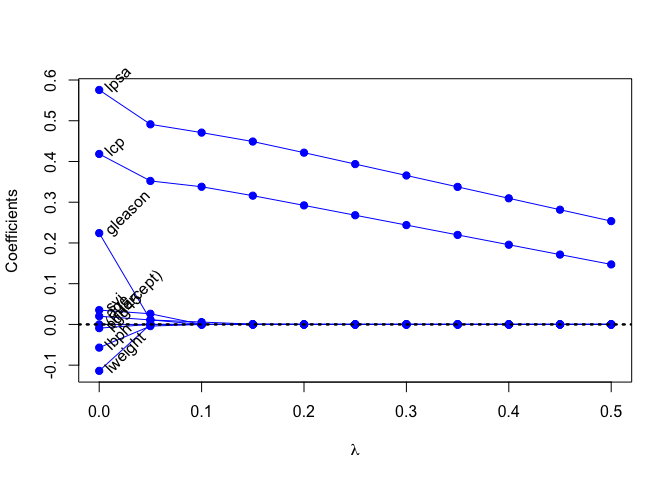
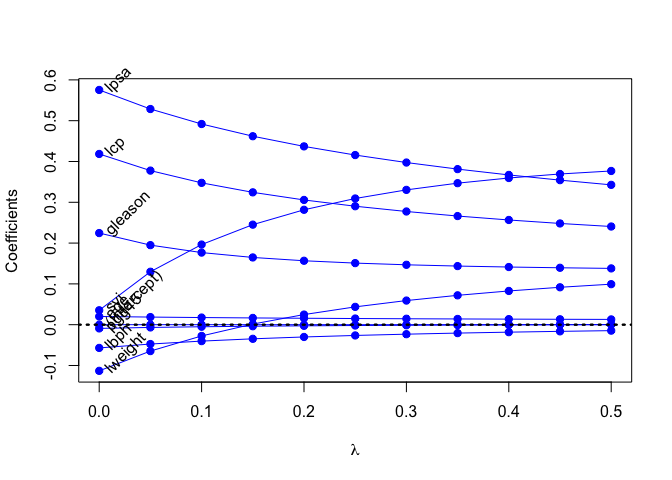
Add files via upload

diff --git a/Homework3_Xueyuan Li/Homework3.md b/Homework3_Xueyuan Li/Homework3.md
@@ -220,7 +220,7 @@ error(yz_test, fit)
 form  <- lcavol ~  lweight + age + lbph + lcp + pgg45 + lpsa + svi + gleason
 x_inp <- model.matrix(form, data=prostate_train)
 y_out <- prostate_train$lcavol
-ridge_model <- glmnet(x=x_inp, y=y_out, lambda=seq(0.5, 0, -0.05))
+ridge_model <- glmnet(x=x_inp, y=y_out, lambda=seq(0.5, 0, -0.05), alpha = 0)
 print(ridge_model$beta)
 ```
 
@@ -228,26 +228,36 @@ print(ridge_model$beta)
 
     ##    [[ suppressing 11 column names 's0', 's1', 's2' ... ]]
 
-    ##                                                                        
-    ## (Intercept) .         .         .         .         .         .        
-    ## lweight     .         .         .         .         .         .        
-    ## age         .         .         .         .         .         .        
-    ## lbph        .         .         .         .         .         .        
-    ## lcp         0.1473018 0.1714414 0.1955919 0.2197423 0.2438928 0.2680433
-    ## pgg45       .         .         .         .         .         .        
-    ## lpsa        0.2535992 0.2816134 0.3096214 0.3376294 0.3656374 0.3936454
-    ## svi         .         .         .         .         .         .        
-    ## gleason     .         .         .         .         .         .        
-    ##                                                                         
-    ## (Intercept) .         .            .            .            .          
-    ## lweight     .         .            .            .           -0.113959029
-    ## age         .         0.0006179005 0.005823836  0.010987417  0.020114429
-    ## lbph        .         .            .           -0.004060083 -0.056959719
-    ## lcp         0.2921937 0.3160341041 0.337951116  0.352226351  0.418442122
-    ## pgg45       .         .            .            .           -0.009110807
-    ## lpsa        0.4216534 0.4489636282 0.470877681  0.491246304  0.575583816
-    ## svi         .         .            .            0.026126960  0.035184640
-    ## gleason     .         .            .            0.011159844  0.224210312
+    ##                                                                    
+    ## (Intercept)  .             .             .             .           
+    ## lweight      0.0993164708  9.167566e-02  0.0826683948  0.0719539791
+    ## age          0.0129153943  1.324527e-02  0.0136179441  0.0140406458
+    ## lbph        -0.0145798645 -1.634009e-02 -0.0183250211 -0.0206075810
+    ## lcp          0.2406189663  2.481045e-01  0.2566365965  0.2662889674
+    ## pgg45        0.0002559092 -6.282802e-05 -0.0004352183 -0.0008738898
+    ## lpsa         0.3427088262  3.542773e-01  0.3670625828  0.3813402190
+    ## svi          0.3767521726  3.693591e-01  0.3595330020  0.3468674180
+    ## gleason      0.1379543516  1.394770e-01  0.1413173561  0.1436779615
+    ##                                                                             
+    ## (Intercept)  .            .            .            .            .          
+    ## lweight      0.059127616  0.043652593  0.024777969  0.001504802 -0.027603986
+    ## age          0.014526957  0.015088490  0.015748487  0.016532948  0.017480107
+    ## lbph        -0.023258103 -0.026377963 -0.030098852 -0.034621150 -0.040241264
+    ## lcp          0.277447149  0.290342311  0.305728439  0.324372008  0.347616547
+    ## pgg45       -0.001398912 -0.002031353 -0.002810371 -0.003788173 -0.005050263
+    ## lpsa         0.397429712  0.415786556  0.437009864  0.461951799  0.491849702
+    ## svi          0.330415198  0.309283880  0.281608260  0.245177911  0.196427346
+    ## gleason      0.146778188  0.150949425  0.156678907  0.164800413  0.176722769
+    ##                                      
+    ## (Intercept)  .            .          
+    ## lweight     -0.064680201 -0.113137304
+    ## age          0.018643148  0.020098181
+    ## lbph        -0.047425776 -0.056962692
+    ## lcp          0.377657417  0.418431830
+    ## pgg45       -0.006739814 -0.009116838
+    ## lpsa         0.528596455  0.575318051
+    ## svi          0.129711598  0.035342349
+    ## gleason      0.194999807  0.224585243
 
 ``` r
 #ridge_model <- glmnet(x = as.matrix(train[, -10]), y = train$lpsa, alpha = 0)
@@ -292,26 +302,36 @@ colnames(ridge_model$beta) <- paste('lam =', ridge_model$lambda)
 print(ridge_model$beta %>% as.matrix)
 ```
 
-    ##             lam = 0.5 lam = 0.45 lam = 0.4 lam = 0.35 lam = 0.3 lam = 0.25
-    ## (Intercept) 0.0000000  0.0000000 0.0000000  0.0000000 0.0000000  0.0000000
-    ## lweight     0.0000000  0.0000000 0.0000000  0.0000000 0.0000000  0.0000000
-    ## age         0.0000000  0.0000000 0.0000000  0.0000000 0.0000000  0.0000000
-    ## lbph        0.0000000  0.0000000 0.0000000  0.0000000 0.0000000  0.0000000
-    ## lcp         0.1473018  0.1714414 0.1955919  0.2197423 0.2438928  0.2680433
-    ## pgg45       0.0000000  0.0000000 0.0000000  0.0000000 0.0000000  0.0000000
-    ## lpsa        0.2535992  0.2816134 0.3096214  0.3376294 0.3656374  0.3936454
-    ## svi         0.0000000  0.0000000 0.0000000  0.0000000 0.0000000  0.0000000
-    ## gleason     0.0000000  0.0000000 0.0000000  0.0000000 0.0000000  0.0000000
-    ##             lam = 0.2   lam = 0.15   lam = 0.1   lam = 0.05      lam = 0
-    ## (Intercept) 0.0000000 0.0000000000 0.000000000  0.000000000  0.000000000
-    ## lweight     0.0000000 0.0000000000 0.000000000  0.000000000 -0.113959029
-    ## age         0.0000000 0.0006179005 0.005823836  0.010987417  0.020114429
-    ## lbph        0.0000000 0.0000000000 0.000000000 -0.004060083 -0.056959719
-    ## lcp         0.2921937 0.3160341041 0.337951116  0.352226351  0.418442122
-    ## pgg45       0.0000000 0.0000000000 0.000000000  0.000000000 -0.009110807
-    ## lpsa        0.4216534 0.4489636282 0.470877681  0.491246304  0.575583816
-    ## svi         0.0000000 0.0000000000 0.000000000  0.026126960  0.035184640
-    ## gleason     0.0000000 0.0000000000 0.000000000  0.011159844  0.224210312
+    ##                 lam = 0.5    lam = 0.45     lam = 0.4    lam = 0.35
+    ## (Intercept)  0.0000000000  0.000000e+00  0.0000000000  0.0000000000
+    ## lweight      0.0993164708  9.167566e-02  0.0826683948  0.0719539791
+    ## age          0.0129153943  1.324527e-02  0.0136179441  0.0140406458
+    ## lbph        -0.0145798645 -1.634009e-02 -0.0183250211 -0.0206075810
+    ## lcp          0.2406189663  2.481045e-01  0.2566365965  0.2662889674
+    ## pgg45        0.0002559092 -6.282802e-05 -0.0004352183 -0.0008738898
+    ## lpsa         0.3427088262  3.542773e-01  0.3670625828  0.3813402190
+    ## svi          0.3767521726  3.693591e-01  0.3595330020  0.3468674180
+    ## gleason      0.1379543516  1.394770e-01  0.1413173561  0.1436779615
+    ##                lam = 0.3   lam = 0.25    lam = 0.2   lam = 0.15    lam = 0.1
+    ## (Intercept)  0.000000000  0.000000000  0.000000000  0.000000000  0.000000000
+    ## lweight      0.059127616  0.043652593  0.024777969  0.001504802 -0.027603986
+    ## age          0.014526957  0.015088490  0.015748487  0.016532948  0.017480107
+    ## lbph        -0.023258103 -0.026377963 -0.030098852 -0.034621150 -0.040241264
+    ## lcp          0.277447149  0.290342311  0.305728439  0.324372008  0.347616547
+    ## pgg45       -0.001398912 -0.002031353 -0.002810371 -0.003788173 -0.005050263
+    ## lpsa         0.397429712  0.415786556  0.437009864  0.461951799  0.491849702
+    ## svi          0.330415198  0.309283880  0.281608260  0.245177911  0.196427346
+    ## gleason      0.146778188  0.150949425  0.156678907  0.164800413  0.176722769
+    ##               lam = 0.05      lam = 0
+    ## (Intercept)  0.000000000  0.000000000
+    ## lweight     -0.064680201 -0.113137304
+    ## age          0.018643148  0.020098181
+    ## lbph        -0.047425776 -0.056962692
+    ## lcp          0.377657417  0.418431830
+    ## pgg45       -0.006739814 -0.009116838
+    ## lpsa         0.528596455  0.575318051
+    ## svi          0.129711598  0.035342349
+    ## gleason      0.194999807  0.224585243
 
 ### (8) Create a path diagram of the ridge regression analysis, similar to HTF Figure 3.8
 
